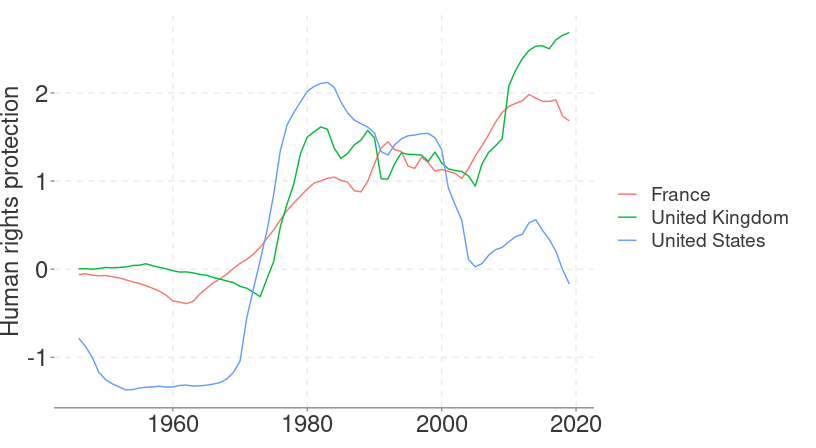
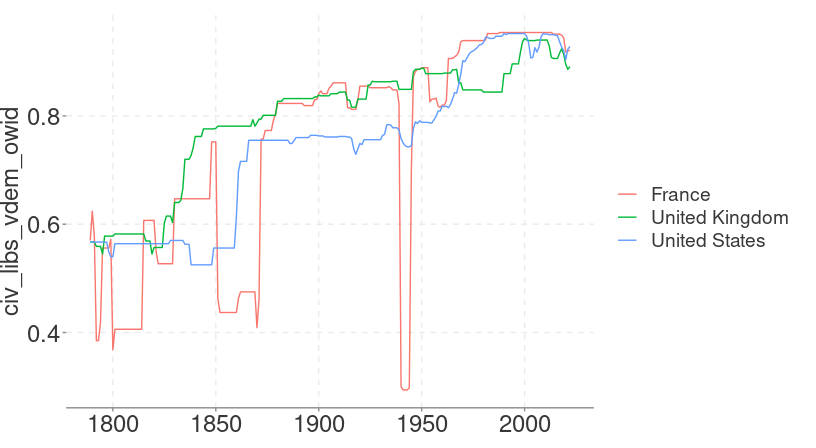
update readme

diff --git a/README.md b/README.md
@@ -17,10 +17,10 @@ environment.
 
 ## Installation
 
-To install from CRAN:
+This package is currently unavailable on CRAN.
 
 ``` r
-install.packages("owidR")
+# install.packages("owidR")
 ```
 
 To install the development version from GitHub:
@@ -46,45 +46,59 @@ library(owidR)
 
 owid_search("human rights")
 ##      chart_id                                                                   
-## [1,] "human-rights-vs-electoral-democracy"                                      
-## [2,] "countries-with-independent-national-human-rights-institution"             
-## [3,] "distribution-human-rights-vdem"                                           
-## [4,] "human-rights-vdem"                                                        
-## [5,] "human-rights-vs-gdp-per-capita"                                           
-## [6,] "human-rights-popw"                                                        
-## [7,] "cases-of-killed-human-rights-defenders-journalists-trade-unionists"       
+## [1,] "human-rights-index-vs-electoral-democracy-index"                          
+## [2,] "cases-of-killed-human-rights-defenders-journalists-trade-unionists"       
+## [3,] "countries-with-independent-national-human-rights-institution"             
+## [4,] "distribution-human-rights-index-vdem"                                     
+## [5,] "human-rights-index-vdem"                                                  
+## [6,] "human-rights-index-population-weighted"                                   
+## [7,] "human-rights-index-vs-gdp-per-capita"                                     
 ## [8,] "share-countries-accredited-independent-national-human-rights-institutions"
 ##      title                                                                              
-## [1,] "Human rights vs. electoral democracy"                                             
-## [2,] "Countries with accredited independent national human rights institutions"         
-## [3,] "Distribution of human rights"                                                     
-## [4,] "Human rights"                                                                     
-## [5,] "Human rights vs. GDP per capita"                                                  
-## [6,] "Human rights weighted by population"                                              
-## [7,] "Number of cases of killed human rights defenders, journalists and trade unionists"
+## [1,] "Human rights index vs. electoral democracy index"                                 
+## [2,] "Confirmed killings of human rights defenders, journalists and trade unionists"    
+## [3,] "Countries with accredited independent national human rights institutions"         
+## [4,] "Distribution of human rights index"                                               
+## [5,] "Human rights index"                                                               
+## [6,] "Human rights index"                                                               
+## [7,] "Human rights index vs. GDP per capita"                                            
 ## [8,] "Share of countries with accredited independent national human rights institutions"
 ```
 
-Let’s use the human rights protection dataset.
+Let’s use the v-dem human rights index dataset.
 
 ``` r
 
-rights <- owid("human-rights-protection")
+rights <- owid("human-rights-index-vdem")
 
 rights
-##             entity   code  year Human rights protection
-##             <char> <char> <int>                   <num>
-##     1: Afghanistan    AFG  1946               0.8294046
-##     2: Afghanistan    AFG  1947               0.8780228
-##     3: Afghanistan    AFG  1948               0.9346468
-##     4: Afghanistan    AFG  1949               0.9661899
-##     5: Afghanistan    AFG  1950               1.0093962
-##    ---                                                 
-## 11269:    Zimbabwe    ZWE  2015              -0.6085724
-## 11270:    Zimbabwe    ZWE  2016              -0.6477543
-## 11271:    Zimbabwe    ZWE  2017              -0.4825199
-## 11272:    Zimbabwe    ZWE  2018              -0.4376560
-## 11273:    Zimbabwe    ZWE  2019              -0.4662343
+## Key: <entity, code, year>
+##             entity   code  year civ_libs_vdem_owid civ_libs_vdem_high_owid
+##             <char> <char> <int>              <num>                   <num>
+##     1: Afghanistan    AFG  1789              0.125                   0.169
+##     2: Afghanistan    AFG  1790              0.125                   0.169
+##     3: Afghanistan    AFG  1791              0.125                   0.169
+##     4: Afghanistan    AFG  1792              0.125                   0.169
+##     5: Afghanistan    AFG  1793              0.125                   0.169
+##    ---                                                                    
+## 33373:    Zimbabwe    ZWE  2018              0.428                   0.473
+## 33374:    Zimbabwe    ZWE  2019              0.403                   0.456
+## 33375:    Zimbabwe    ZWE  2020              0.413                   0.469
+## 33376:    Zimbabwe    ZWE  2021              0.395                   0.443
+## 33377:    Zimbabwe    ZWE  2022              0.388                   0.432
+##        civ_libs_vdem_low_owid
+##                         <num>
+##     1:                  0.089
+##     2:                  0.089
+##     3:                  0.089
+##     4:                  0.089
+##     5:                  0.089
+##    ---                       
+## 33373:                  0.381
+## 33374:                  0.361
+## 33375:                  0.373
+## 33376:                  0.344
+## 33377:                  0.331
 ```
 
 ggplot2 makes it easy to visualise our data.
@@ -95,7 +109,7 @@ library(dplyr)
 
 rights |> 
   filter(entity %in% c("United Kingdom", "France", "United States")) |> 
-  ggplot(aes(year, `Human rights protection`, colour = entity)) +
+  ggplot(aes(year, civ_libs_vdem_owid, colour = entity)) +
   geom_line()
 ```
 
@@ -110,23 +124,23 @@ rates, using `owid_covid()`.
 covid <- owid_covid()
 
 str(covid)
-## Classes 'owid', 'data.table' and 'data.frame':   244611 obs. of  67 variables:
+## Classes 'owid', 'data.table' and 'data.frame':   351765 obs. of  67 variables:
 ##  $ iso_code                                  : chr  "AFG" "AFG" "AFG" "AFG" ...
 ##  $ continent                                 : chr  "Asia" "Asia" "Asia" "Asia" ...
 ##  $ location                                  : chr  "Afghanistan" "Afghanistan" "Afghanistan" "Afghanistan" ...
-##  $ date                                      : IDate, format: "2020-02-24" "2020-02-25" ...
-##  $ total_cases                               : num  5 5 5 5 5 5 5 5 5 5 ...
-##  $ new_cases                                 : num  5 0 0 0 0 0 0 0 0 0 ...
-##  $ new_cases_smoothed                        : num  NA NA NA NA NA 0.714 0.714 0 0 0 ...
+##  $ date                                      : IDate, format: "2020-01-03" "2020-01-04" ...
+##  $ total_cases                               : num  NA NA NA NA NA NA NA NA NA NA ...
+##  $ new_cases                                 : num  0 0 0 0 0 0 0 0 0 0 ...
+##  $ new_cases_smoothed                        : num  NA NA NA NA NA 0 0 0 0 0 ...
 ##  $ total_deaths                              : num  NA NA NA NA NA NA NA NA NA NA ...
-##  $ new_deaths                                : num  NA NA NA NA NA NA NA NA NA NA ...
-##  $ new_deaths_smoothed                       : num  NA NA NA NA NA NA NA NA NA NA ...
-##  $ total_cases_per_million                   : num  0.122 0.122 0.122 0.122 0.122 0.122 0.122 0.122 0.122 0.122 ...
-##  $ new_cases_per_million                     : num  0.122 0 0 0 0 0 0 0 0 0 ...
-##  $ new_cases_smoothed_per_million            : num  NA NA NA NA NA 0.017 0.017 0 0 0 ...
+##  $ new_deaths                                : num  0 0 0 0 0 0 0 0 0 0 ...
+##  $ new_deaths_smoothed                       : num  NA NA NA NA NA 0 0 0 0 0 ...
+##  $ total_cases_per_million                   : num  NA NA NA NA NA NA NA NA NA NA ...
+##  $ new_cases_per_million                     : num  0 0 0 0 0 0 0 0 0 0 ...
+##  $ new_cases_smoothed_per_million            : num  NA NA NA NA NA 0 0 0 0 0 ...
 ##  $ total_deaths_per_million                  : num  NA NA NA NA NA NA NA NA NA NA ...
-##  $ new_deaths_per_million                    : num  NA NA NA NA NA NA NA NA NA NA ...
-##  $ new_deaths_smoothed_per_million           : num  NA NA NA NA NA NA NA NA NA NA ...
+##  $ new_deaths_per_million                    : num  0 0 0 0 0 0 0 0 0 0 ...
+##  $ new_deaths_smoothed_per_million           : num  NA NA NA NA NA 0 0 0 0 0 ...
 ##  $ reproduction_rate                         : num  NA NA NA NA NA NA NA NA NA NA ...
 ##  $ icu_patients                              : num  NA NA NA NA NA NA NA NA NA NA ...
 ##  $ icu_patients_per_million                  : num  NA NA NA NA NA NA NA NA NA NA ...
@@ -158,7 +172,7 @@ str(covid)
 ##  $ new_vaccinations_smoothed_per_million     : num  NA NA NA NA NA NA NA NA NA NA ...
 ##  $ new_people_vaccinated_smoothed            : num  NA NA NA NA NA NA NA NA NA NA ...
 ##  $ new_people_vaccinated_smoothed_per_hundred: num  NA NA NA NA NA NA NA NA NA NA ...
-##  $ stringency_index                          : num  8.33 8.33 8.33 8.33 8.33 ...
+##  $ stringency_index                          : num  0 0 0 0 0 0 0 0 0 0 ...
 ##  $ population_density                        : num  54.4 54.4 54.4 54.4 54.4 ...
 ##  $ median_age                                : num  18.6 18.6 18.6 18.6 18.6 18.6 18.6 18.6 18.6 18.6 ...
 ##  $ aged_65_older                             : num  2.58 2.58 2.58 2.58 2.58 ...
